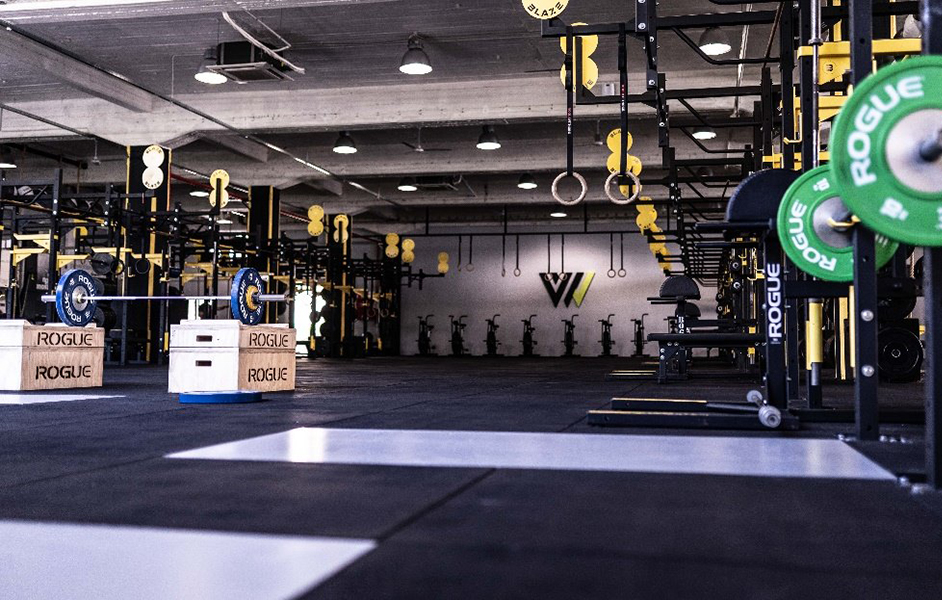
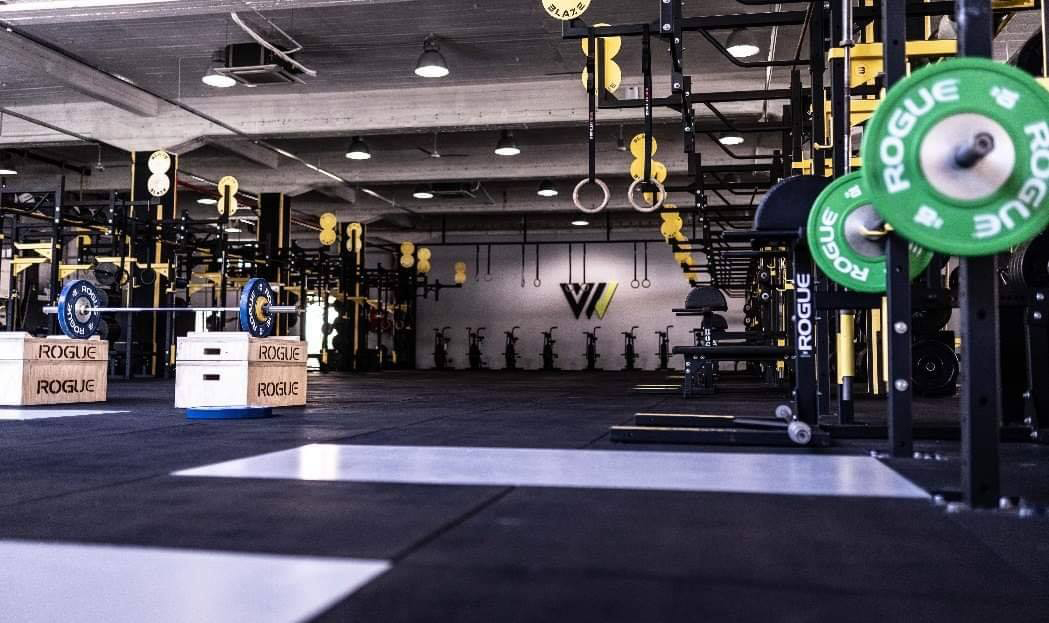
new style

diff --git a/app/views/gyms/index.php b/app/views/gyms/index.php
@@ -29,7 +29,7 @@
             </div>
         </div>
         <div class="col-md-6 ">
-            <img src= " <?php echo URLROOT ?> /images/gym/bigimggym.jpg" alt="stars">
+            <img src= " <?php echo URLROOT ?> /images/gym/bigimggym.jpg" width="100%" height="600" alt="biggym">
         </div>
     </div>
 <!-----------------------------------------------------------------------------------------------------------------
